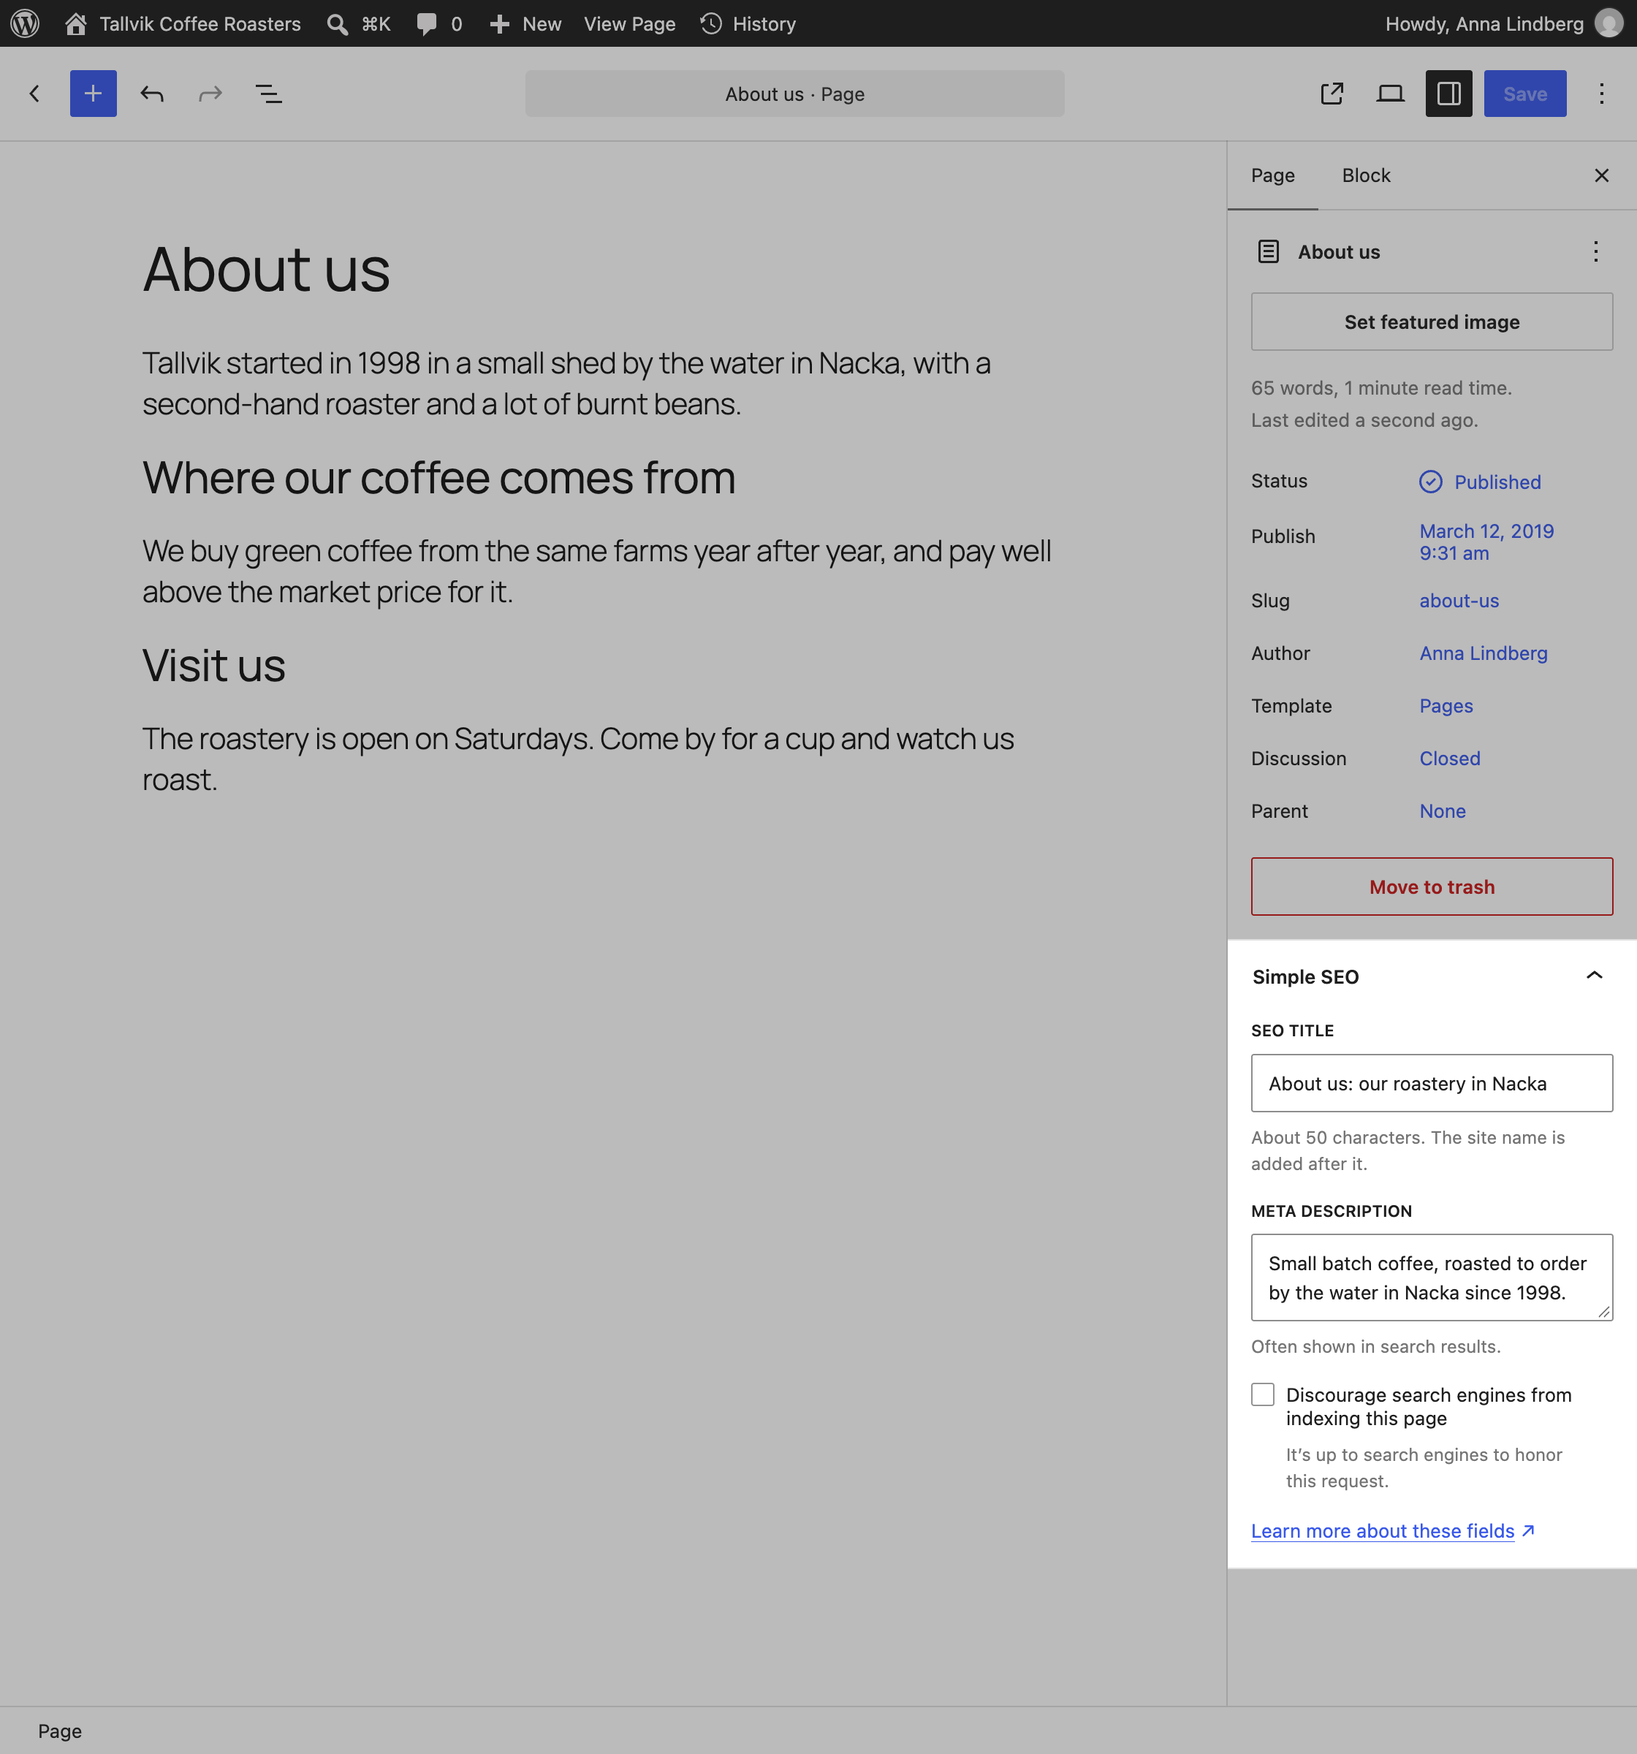
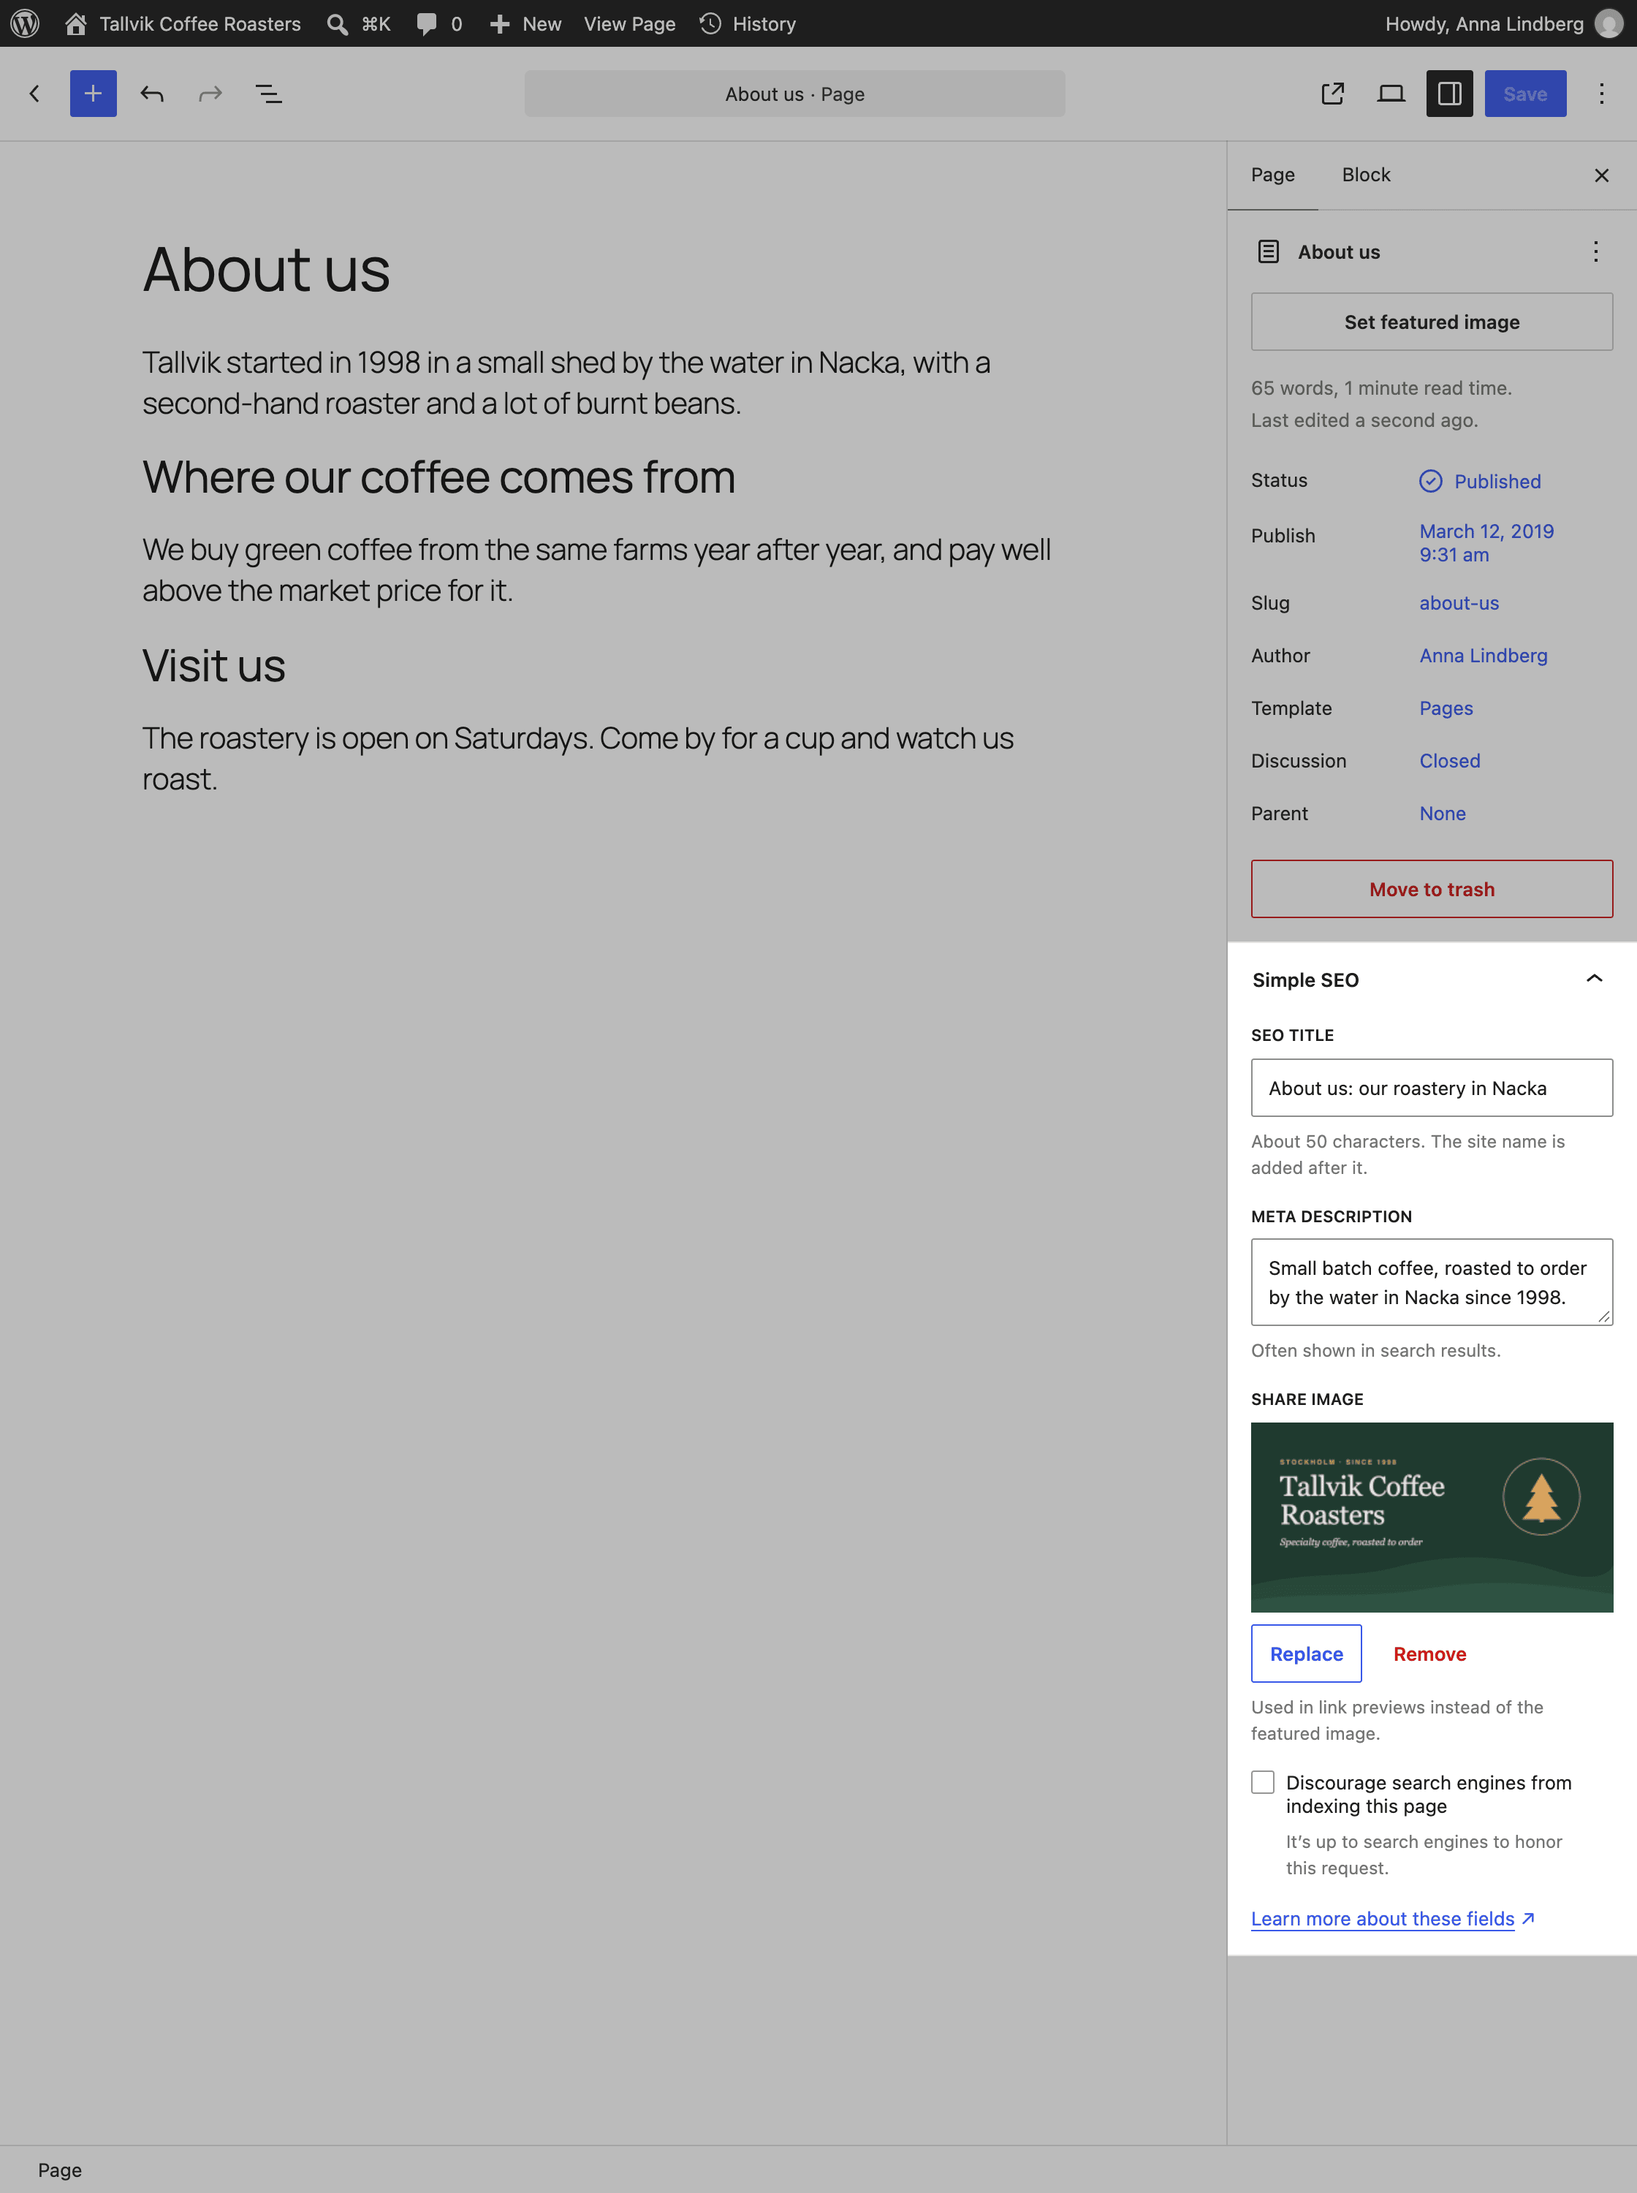
Screenshots: show the share image in the editors and in Simple History
Retake all six WordPress.org screenshots. The demo "About us" page has a
share image, and shot 1 sets it while saving, so the Simple History entry
in shot 6 shows the image change next to the title and description.

diff --git a/.claude/skills/visual-check/capture-screenshots.js b/.claude/skills/visual-check/capture-screenshots.js
@@ -18,9 +18,9 @@
 async ( page ) => {
 	const WP_ENV = 'http://localhost:8315';
 	const CLASSIC = 'http://wp-playground-classiceditor.test:8314';
-	const WP_ENV_PAGE = 394; // "About us" from seed.php on wp-env.
-	const WP_ENV_QUICK_EDIT = 391; // "Our coffees", opened in Quick Edit in shot 2.
-	const CLASSIC_PAGE = 195; // "About us" from seed.php on the Classic Editor site.
+	const WP_ENV_PAGE = 37; // "About us" from seed.php on wp-env.
+	const WP_ENV_QUICK_EDIT = 34; // "Our coffees", opened in Quick Edit in shot 2.
+	const CLASSIC_PAGE = 14; // "About us" from seed.php on the Classic Editor site.
 	const X = 160; // Right of the admin menu.
 	const WIDTH = 1120;
 
@@ -28,7 +28,7 @@ async ( page ) => {
 		.context()
 		.browser()
 		.newContext( {
-			viewport: { width: WIDTH, height: 1200 }, // The block editor has no admin menu; tall enough for the whole panel.
+			viewport: { width: WIDTH, height: 1500 }, // The block editor has no admin menu; tall enough for the whole panel.
 			deviceScaleFactor: 2,
 		} );
 	const p = await context.newPage();
@@ -76,6 +76,13 @@ async ( page ) => {
 	await p
 		.getByRole( 'textbox', { name: 'Meta description' } )
 		.fill( 'Small batch coffee, roasted to order by the water in Nacka since 1998.' );
+	// And the share image (the seeded demo image), so shot 6 shows the image diff too.
+	await p.evaluate( async () => {
+		const [ image ] = await wp.apiFetch( { path: '/wp/v2/media?search=tallvik&per_page=1' } );
+		wp.data.dispatch( 'core/editor' ).editPost( { meta: { _simple_seo_share_image: image.id } } );
+	} );
+	await p.getByRole( 'button', { name: 'Replace' } ).waitFor();
+	await p.waitForTimeout( 1000 ); // The preview image.
 	await p.getByRole( 'button', { name: 'Save', exact: true } ).click();
 	await p.waitForTimeout( 2500 );
 	await p.evaluate( () => document.activeElement?.blur() ); // No focus ring on Save.
@@ -160,11 +167,12 @@ async ( page ) => {
 
 	// 4. Classic Editor box.
 	await login( CLASSIC, 'admin', 'admin' );
-	await p.setViewportSize( { width: X + WIDTH, height: 1160 } );
+	await p.setViewportSize( { width: X + WIDTH, height: 1700 } );
 	await p.goto( `${ CLASSIC }/wp-admin/post.php?post=${ CLASSIC_PAGE }&action=edit` );
 	await p.waitForSelector( '#simple-seo' );
-	// The company's domain instead of the test site's (display only).
+	// The company's domain instead of the test site's, and no core update notice (display only).
 	await p.evaluate( () => {
+		document.querySelector( '.update-nag' )?.remove();
 		const link = document.querySelector( '#sample-permalink a' );
 		link.innerHTML = link.innerHTML.replace( /^https?:\/\/[^/]+/, 'https://tallvikcoffee.se' );
 	} );

diff --git a/.claude/skills/visual-check/seed.php b/.claude/skills/visual-check/seed.php
@@ -170,5 +170,10 @@ $image_id = media_handle_sideload( [ 'name' => 'tallvik-share-image.png', 'tmp_n
 update_post_meta( $image_id, '_simple_seo_demo', 1 );
 update_post_meta( $image_id, '_wp_attachment_image_alt', 'Tallvik Coffee Roasters, specialty coffee from Stockholm' );
 update_option( SimpleSEO\SHARE_IMAGE_OPTION, SimpleSEO\sanitize_share_image( $image_id ) );
+// And as About us's own share image, so the editor screenshots show the field in use. Not on
+// wp-env: there shot 1 sets it while saving, so the Simple History entry in shot 6 shows the image.
+if ( ! $full ) {
+	update_post_meta( $ids['About us'], SimpleSEO\SHARE_IMAGE_KEY, $image_id );
+}
 
 echo (int) $ids['About us'], ' ', (int) $ids['Our coffees'];

diff --git a/.claude/skills/visual-check/SKILL.md b/.claude/skills/visual-check/SKILL.md
@@ -65,7 +65,7 @@ Steps:
    oxipng -o max --strip safe .wordpress-org/screenshot-*.png
    ```
    2026-09-26: the six came out at 114/134/104/124/34/32 KB.
-5. Look at all six before committing: the whole panel down to "Learn more about these fields" visible in shot 1 (the window is 1200 high for that), Quick Edit and column values both visible in shot 2 (it ends at the "Thanks for your order" row), nothing cut off in shot 4, no `about-us-2` slug (delete older "About us" pages on the Classic site), no Simple History sidebar in shot 6.
+5. Look at all six before committing: the whole panel down to "Learn more about these fields" visible in shot 1 (the window is 1500 high for that), Quick Edit and column values both visible in shot 2 (it ends at the "Thanks for your order" row), nothing cut off in shot 4, no `about-us-2` slug (delete older "About us" pages on the Classic site), no Simple History sidebar in shot 6.
 
 ## Gotchas
 

diff --git a/README.md b/README.md
@@ -23,7 +23,7 @@ A few things just happen:
 ## Screenshots
 
 <p align="center">
-	<img src=".wordpress-org/screenshot-1.png" width="720" alt="The Simple SEO panel in the block editor sidebar, with an SEO title, a meta description and the discourage search engines checkbox.">
+	<img src=".wordpress-org/screenshot-1.png" width="720" alt="The Simple SEO panel in the block editor sidebar, with an SEO title, a meta description, a share image and the discourage search engines checkbox.">
 </p>
 
 <details>
